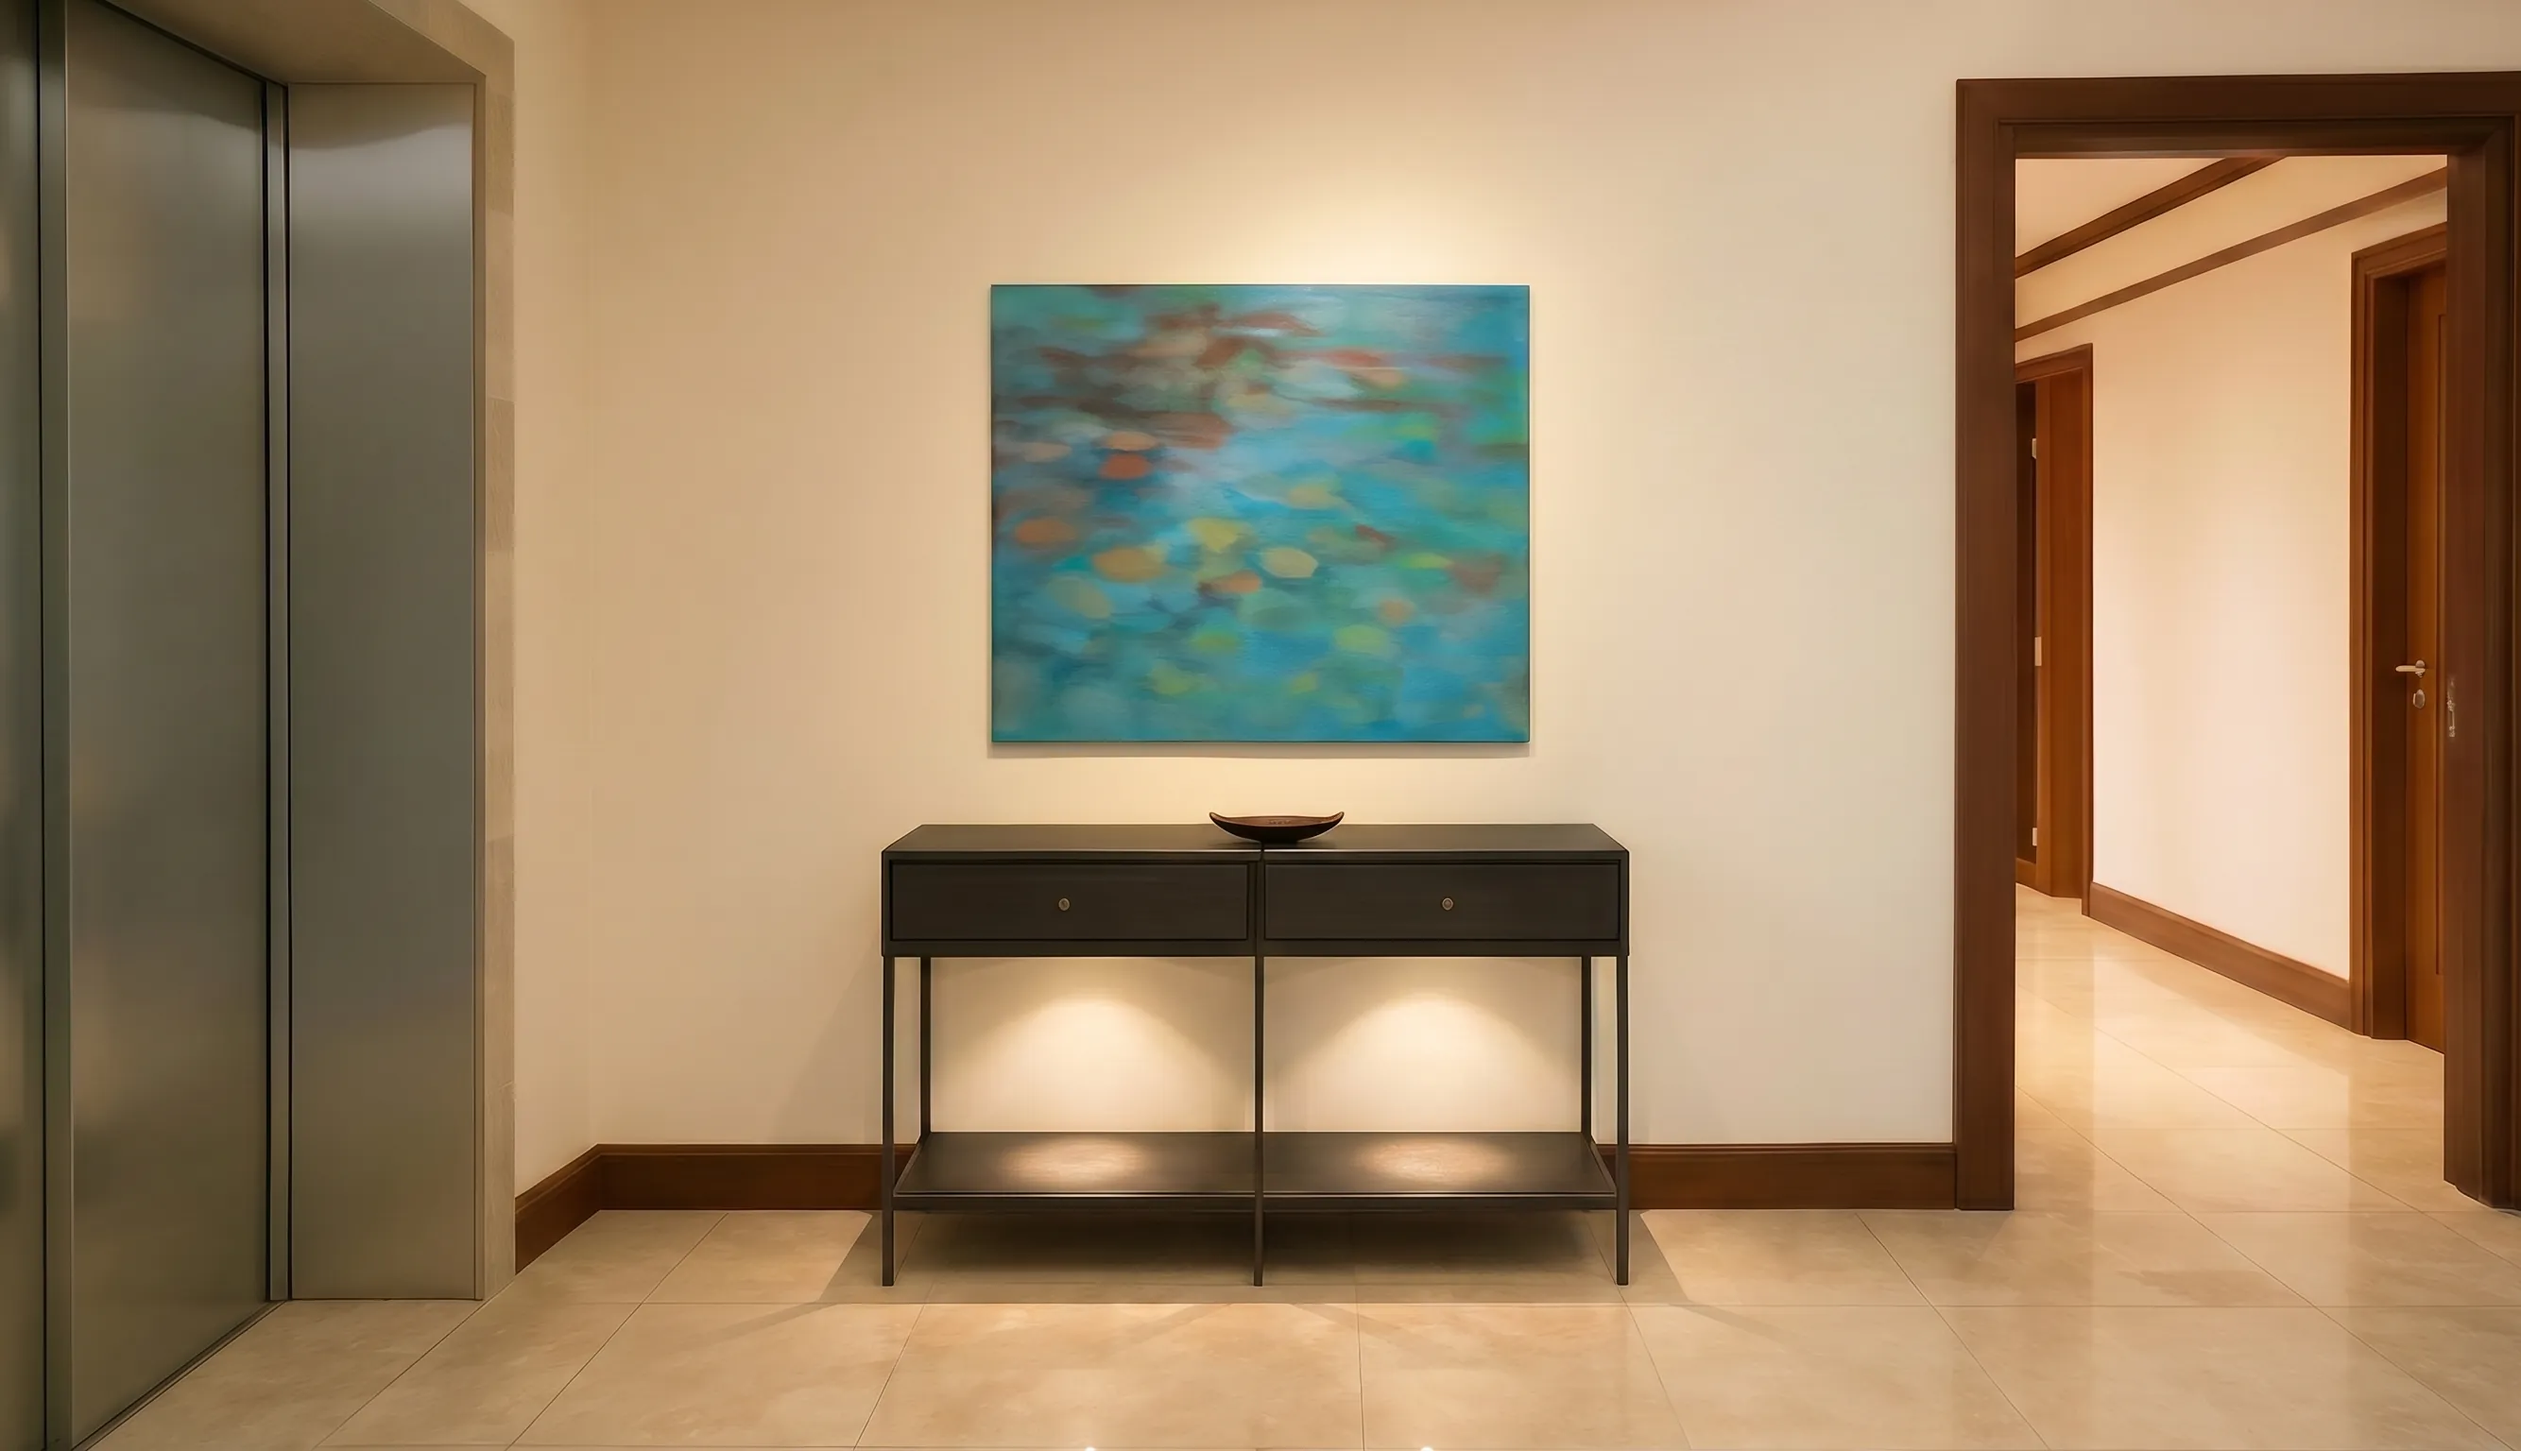
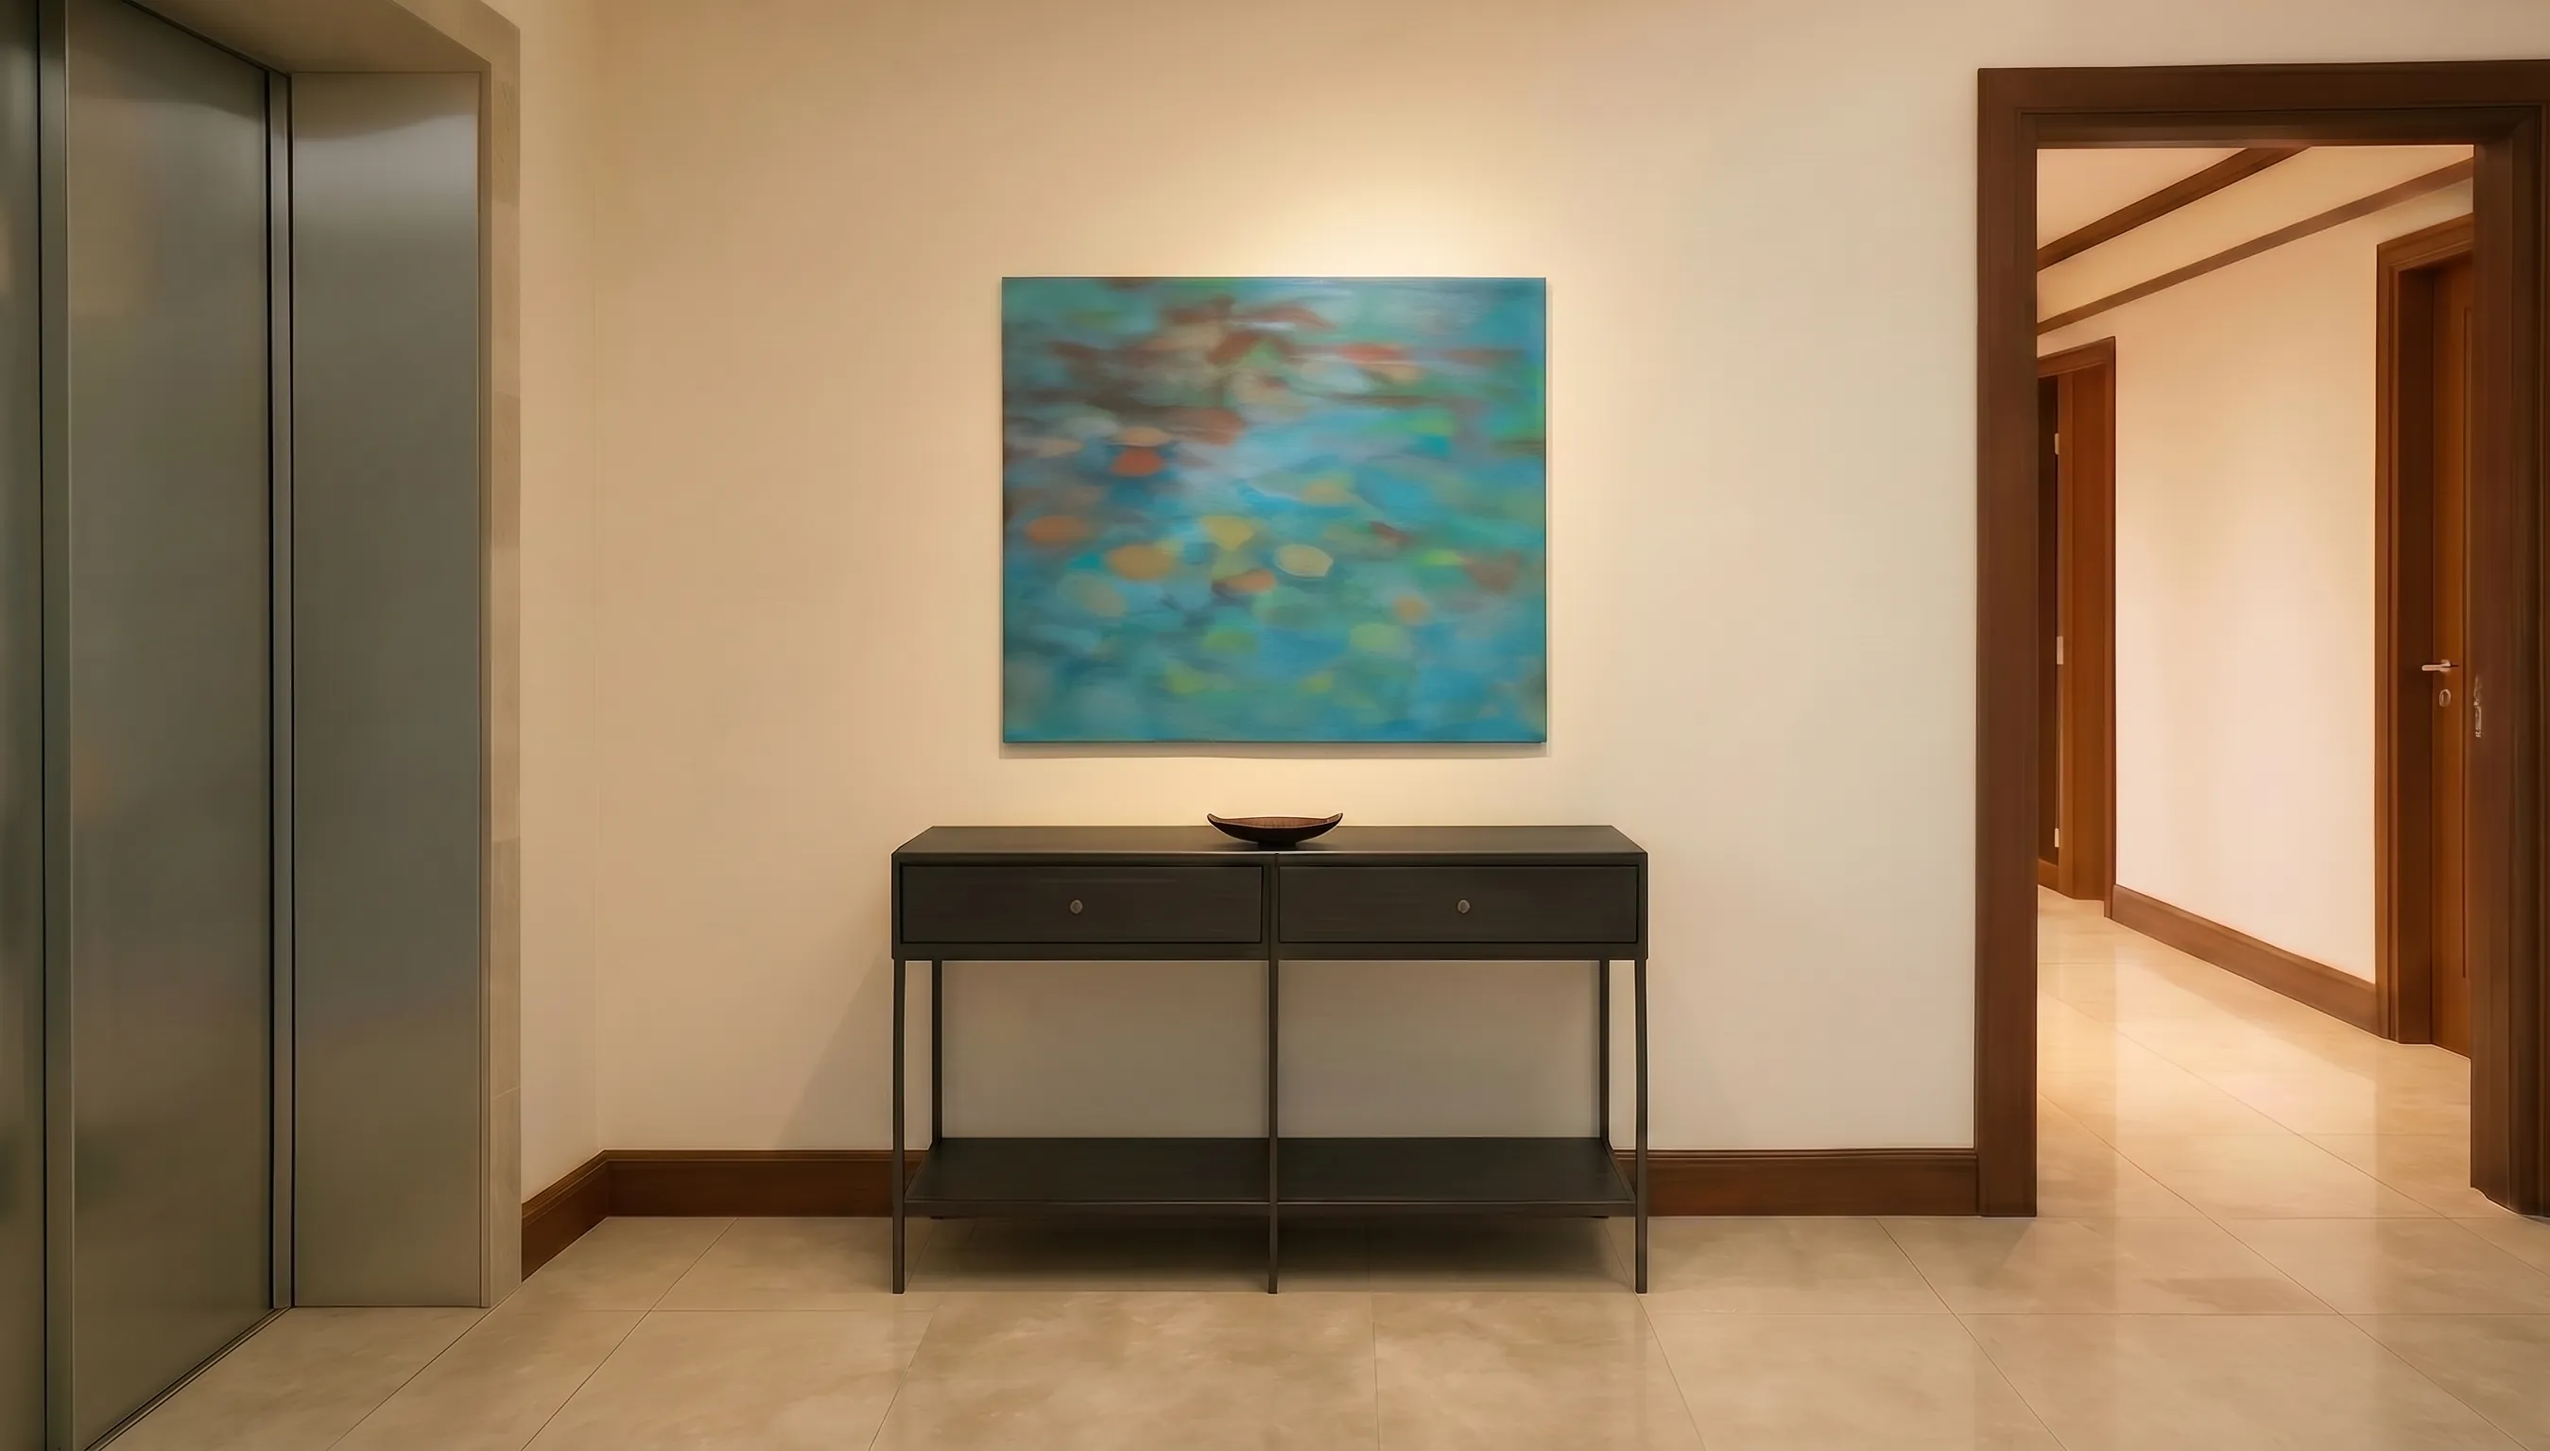
Update Considered/End-to-End interstitial image (optimized 4.png); cache-bust

diff --git a/Vero Design Studio.html b/Vero Design Studio.html
@@ -97,7 +97,7 @@
 <!-- ===================== INTERSTITIAL ===================== -->
 <section class="interstitial" data-screen-label="Interstitial">
   <div class="interstitial__media">
-    <img loading="lazy" decoding="async" src="assets/img/hallway-art.webp" alt="Refined hallway with console table and abstract teal artwork" data-parallax="0.18">
+    <img loading="lazy" decoding="async" src="assets/img/hallway-art.webp?v=2" alt="Refined hallway with console table and abstract teal artwork" data-parallax="0.18">
   </div>
   <div class="interstitial__inner">
     <span class="interstitial__kicker" data-reveal>Considered, end to end</span>

diff --git a/index.html b/index.html
@@ -97,7 +97,7 @@
 <!-- ===================== INTERSTITIAL ===================== -->
 <section class="interstitial" data-screen-label="Interstitial">
   <div class="interstitial__media">
-    <img loading="lazy" decoding="async" src="assets/img/hallway-art.webp" alt="Refined hallway with console table and abstract teal artwork" data-parallax="0.18">
+    <img loading="lazy" decoding="async" src="assets/img/hallway-art.webp?v=2" alt="Refined hallway with console table and abstract teal artwork" data-parallax="0.18">
   </div>
   <div class="interstitial__inner">
     <span class="interstitial__kicker" data-reveal>Considered, end to end</span>
